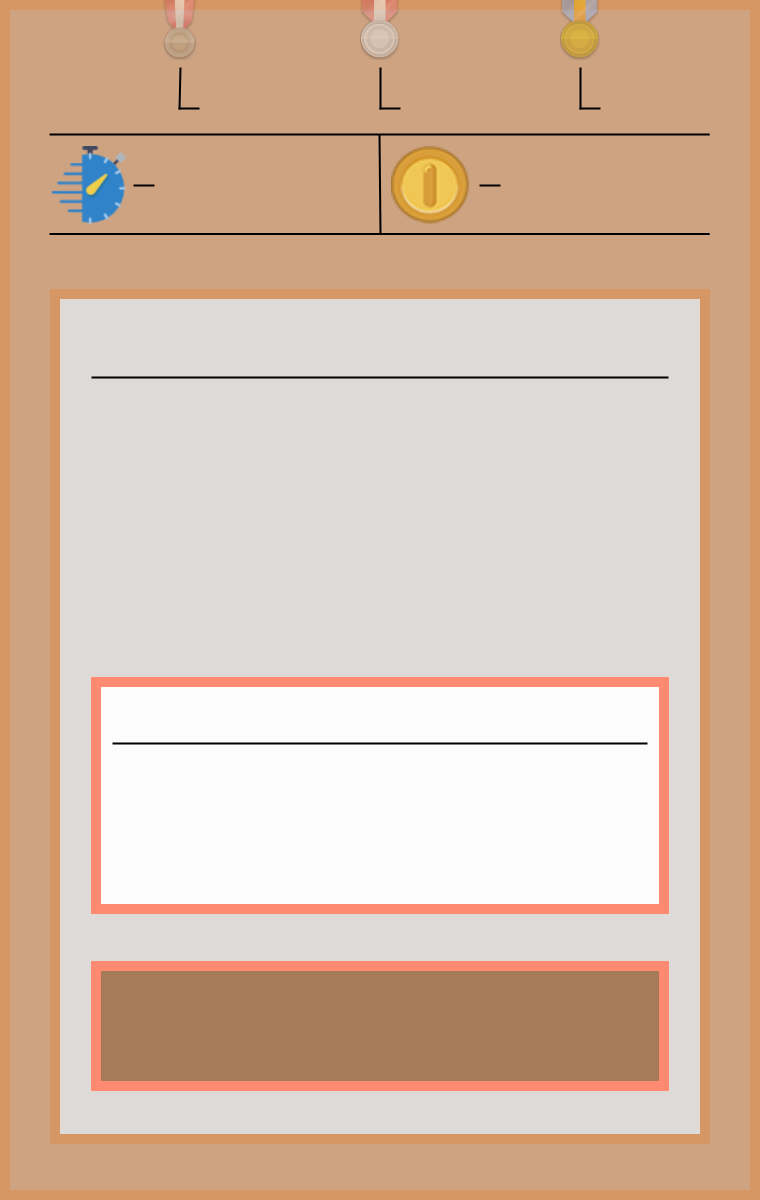
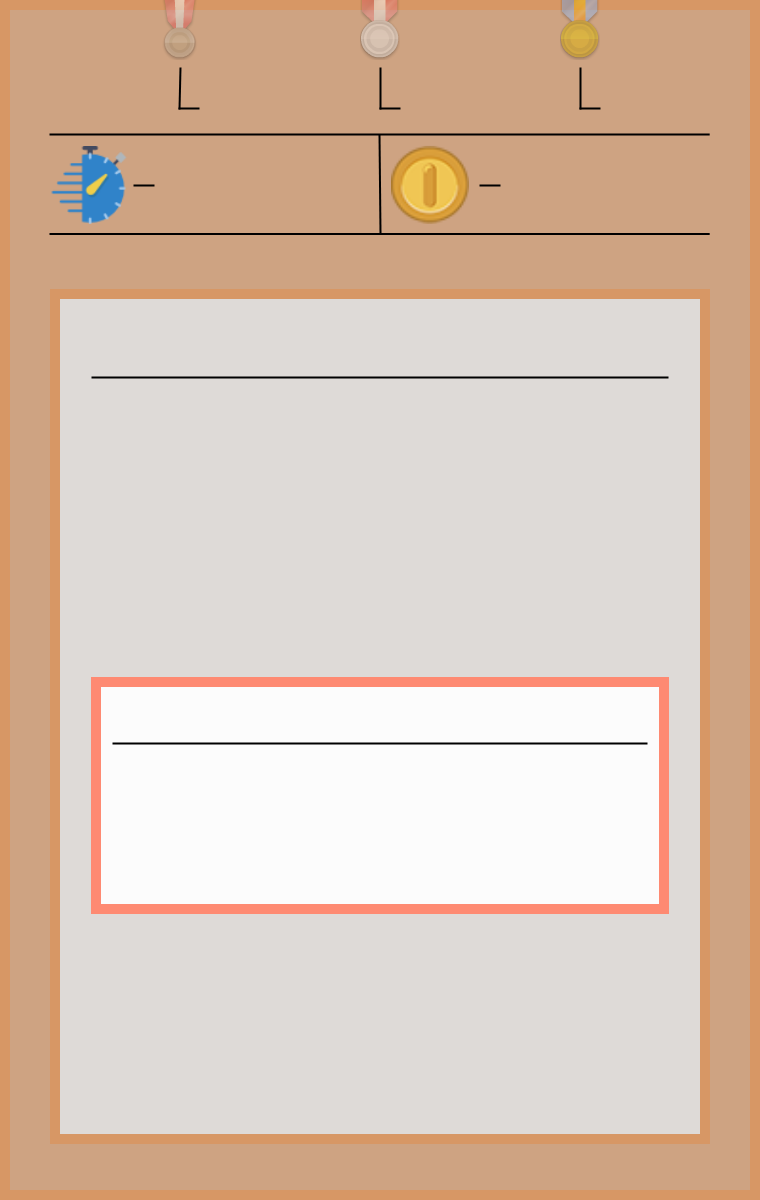
Add play button to the level info screen

Changed region(s): [[0.1211, 0.8017, 0.8776, 0.925]]

diff --git a/src/main/java/ivara/scenes/LevelMap.java b/src/main/java/ivara/scenes/LevelMap.java
@@ -3,14 +3,15 @@ package ivara.scenes;
 import core.scene.Scene;
 import core.struct.Camera;
 import core.struct.ResourceID;
-import ivara.entities.BackgroundEntity;
-import ivara.entities.LevelIconEntity;
-import ivara.entities.LevelInfoEntity;
-import ivara.entities.PlayerMiniFigureEntity;
+import core.struct.Sprite;
+import ivara.entities.*;
 import ivara.scenes.boots.*;
 import maths.Vector;
+import physics.AABBCollider;
 
 public class LevelMap extends Scene {
+
+    private static final Vector PLAY_BUTTON_DIMEN = new Vector(7.225f, 1.625f);
 
     @Override
     public void initialize() {
@@ -23,7 +24,16 @@ public class LevelMap extends Scene {
         addDesertLevels();
 
         addEntity(new PlayerMiniFigureEntity(new Vector(10.225f, 9.65f)));
-        addEntity(new LevelInfoEntity(new Vector(21.5f, 1.4f)));
+        LevelInfoEntity levelInfo = new LevelInfoEntity(new Vector(21.5f, 1.4f));
+        addEntity(levelInfo);
+
+        UIEntity button = new UIEntity(
+                new Vector(22.65f, 13.4f),
+                new Sprite(new ResourceID("play"), new Vector(0, 0), PLAY_BUTTON_DIMEN),
+                new AABBCollider(new Vector(0, 0), PLAY_BUTTON_DIMEN)
+        );
+        button.addListener(levelInfo::playLevel);
+        addEntity(button);
 
         addEntity(new BackgroundEntity(new ResourceID("background-sea")));
         addEntity(new BackgroundEntity(new ResourceID("map")));

diff --git a/src/main/java/ivara/entities/LevelInfoEntity.java b/src/main/java/ivara/entities/LevelInfoEntity.java
@@ -88,6 +88,10 @@ public class LevelInfoEntity extends GameEntity {
         infoSprite.setState(level.getMedalLevel());
     }
 
+    public void playLevel() {
+        System.out.println("PLAY");
+    }
+
     private String formatCoins(Level level) {
         return String.valueOf(level.getCollectedCoinCount()) + '/' + String.valueOf(level.getTotalCoinCount());
     }

diff --git a/src/main/java/core/struct/AnimatedSprite.java b/src/main/java/core/struct/AnimatedSprite.java
@@ -20,6 +20,7 @@ import java.util.Map;
  *
  * @author Will Pearson
  */
+//TODO: this is being used beyond it intended use as a "sprite switcher" this needs to be made and animated sprite can extend it with animations
 public class AnimatedSprite extends Sprite {
 
     private String state;
